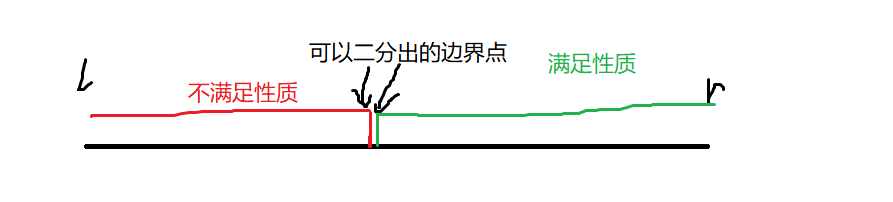
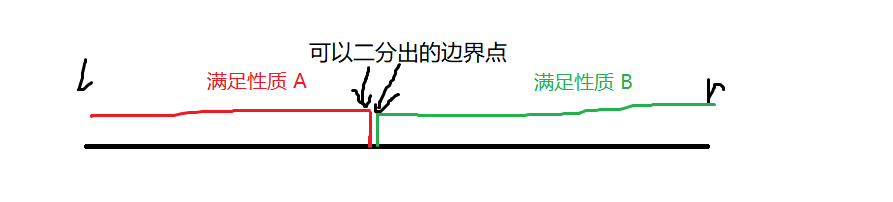
Site updated: 2022-01-06 17:11:42

Changed region(s): [[0.5745, 0.2376, 0.7256, 0.4455], [0.2116, 0.3564, 0.3628, 0.505]]

diff --git a/2020/08/17/algorithm/algorithm-binarysearch/index.html b/2020/08/17/algorithm/algorithm-binarysearch/index.html
@@ -35,7 +35,7 @@
 <meta property="og:locale" content="zh_CN">
 <meta property="og:image" content="https://yanglei253.github.io/2020/08/17/algorithm/algorithm-binarysearch/2022-01-05-16-02-47.png">
 <meta property="article:published_time" content="2020-08-17T11:36:17.000Z">
-<meta property="article:modified_time" content="2022-01-05T08:41:16.974Z">
+<meta property="article:modified_time" content="2022-01-05T11:20:25.718Z">
 <meta property="article:author" content="YangLei253">
 <meta property="article:tag" content="二分思想">
 <meta name="twitter:card" content="summary">
@@ -309,14 +309,14 @@
         <i class="far fa-file-word"></i>
       </span>
       <span class="post-meta-item-text">本文字数：</span>
-      <span>1.6k</span>
+      <span>1.7k</span>
     </span>
     <span class="post-meta-item" title="阅读时长">
       <span class="post-meta-item-icon">
         <i class="far fa-clock"></i>
       </span>
       <span class="post-meta-item-text">阅读时长 &asymp;</span>
-      <span>1 分钟</span>
+      <span>2 分钟</span>
     </span>
 </div>
 
@@ -333,16 +333,19 @@
 <p>二分搜索思想十分简单：首先确定待搜索区间，随后获取区间中间值并将其与待搜索值进行比对，如果区间中间值大于待搜索值，则待搜索区间应为左半部分，反之待搜索区间应为右半部分，最后递归处理待搜索区间即可。</p>
 <p>二分搜索实现比较困难，原因在于：若干边界条件需要判断。</p>
 <h2 id="实现"><a href="#实现" class="headerlink" title="实现"></a>实现</h2><p>如上所言，二分搜索实现较为困难。我们在此引入两个简洁地二分搜索模板。</p>
-<p>对于二分问题而言，其本质在于二段性，即一段满足某种性质，一段不满足某种性质 (或者称为一段满足性质 1，一段满足性质 2，而且性质 1/2 相对立)：<br><img src="/2020/08/17/algorithm/algorithm-binarysearch/2022-01-05-16-02-47.png"></p>
-<p>二分具体实现的结果，就是要找到两者的边界点。</p>
-<p>如何找到 “不满足性质的边界”？</p>
-<figure class="highlight java"><table><tr><td class="gutter"><pre><span class="line">1</span><br><span class="line">2</span><br><span class="line">3</span><br><span class="line">4</span><br><span class="line">5</span><br><span class="line">6</span><br><span class="line">7</span><br><span class="line">8</span><br><span class="line">9</span><br><span class="line">10</span><br><span class="line">11</span><br><span class="line">12</span><br><span class="line">13</span><br><span class="line">14</span><br><span class="line">15</span><br><span class="line">16</span><br><span class="line">17</span><br><span class="line">18</span><br><span class="line">19</span><br></pre></td><td class="code"><pre><span class="line"><span class="function"><span class="keyword">public</span> <span class="keyword">int</span> <span class="title">binarySearch</span><span class="params">(Integer[] objects, Integer item)</span> </span>&#123;</span><br><span class="line">    <span class="keyword">int</span> l = <span class="number">0</span>, r = objects.length - <span class="number">1</span>;</span><br><span class="line"></span><br><span class="line">    <span class="comment">// 循环判定条件总是此</span></span><br><span class="line">    <span class="keyword">while</span> (l &lt; r) &#123;</span><br><span class="line">        <span class="comment">// 获取中间节点索引</span></span><br><span class="line">        <span class="keyword">int</span> mid = (l + r + <span class="number">1</span>) &gt;&gt; <span class="number">1</span>;</span><br><span class="line"></span><br><span class="line">        <span class="comment">// 判定 objects[mid] 是否位于 &quot;不满足性质” 区间，如果位于，则对应边界应当存在于 [mid,r]，否则对应边界存在于 [l,mid - 1]</span></span><br><span class="line">        <span class="keyword">if</span> (check(objects[mid], item)) &#123;</span><br><span class="line">            l = mid;</span><br><span class="line">        &#125; <span class="keyword">else</span> &#123;</span><br><span class="line">            r = mid - <span class="number">1</span>;</span><br><span class="line">        &#125;</span><br><span class="line">    &#125;</span><br><span class="line"></span><br><span class="line">    <span class="comment">// l 即是 &quot;不满足性质&quot; 区间的边界</span></span><br><span class="line">    <span class="keyword">return</span> l;</span><br><span class="line">&#125;</span><br></pre></td></tr></table></figure>
-<p>如何找到 “满足性质的边界”？</p>
-<figure class="highlight java"><table><tr><td class="gutter"><pre><span class="line">1</span><br><span class="line">2</span><br><span class="line">3</span><br><span class="line">4</span><br><span class="line">5</span><br><span class="line">6</span><br><span class="line">7</span><br><span class="line">8</span><br><span class="line">9</span><br><span class="line">10</span><br><span class="line">11</span><br><span class="line">12</span><br><span class="line">13</span><br><span class="line">14</span><br><span class="line">15</span><br><span class="line">16</span><br><span class="line">17</span><br><span class="line">18</span><br><span class="line">19</span><br></pre></td><td class="code"><pre><span class="line"><span class="function"><span class="keyword">public</span> <span class="keyword">int</span> <span class="title">binarySearch</span><span class="params">(Integer[] objects, Integer item)</span> </span>&#123;</span><br><span class="line">    <span class="keyword">int</span> l = <span class="number">0</span>, r = objects.length - <span class="number">1</span>;</span><br><span class="line"></span><br><span class="line">    <span class="comment">// 循环判定条件总是此</span></span><br><span class="line">    <span class="keyword">while</span> (l &lt; r) &#123;</span><br><span class="line">        <span class="comment">// 获取中间节点索引</span></span><br><span class="line">        <span class="keyword">int</span> mid = (l + r) &gt;&gt; <span class="number">1</span>;</span><br><span class="line"></span><br><span class="line">        <span class="comment">// 判定 objects[mid] 是否位于 &quot;满足性质” 区间，如果位于，则对应边界应当存在于 [l,mid]，否则对应边界存在于 [mid+1,r] </span></span><br><span class="line">        <span class="keyword">if</span> (check(objects[mid], item)) &#123;</span><br><span class="line">            r = mid;</span><br><span class="line">        &#125; <span class="keyword">else</span> &#123;</span><br><span class="line">            l = mid + <span class="number">1</span>;</span><br><span class="line">        &#125;</span><br><span class="line">    &#125;</span><br><span class="line"></span><br><span class="line">     <span class="comment">// l 即是 &quot;满足性质&quot; 区间的边界</span></span><br><span class="line">    <span class="keyword">return</span> l;</span><br><span class="line">&#125;</span><br></pre></td></tr></table></figure>
-<blockquote>
-<p><strong>针对模板 1 中 mid 取值，作如下说明</strong>：<br>假定待搜索区间为 $[l,l+1]$ 且 $objects[l] \leq item$，此时如果采用 <code>mid = (l + r) &gt;&gt; 1</code> ，则 <code>mid = l</code>，由于 $objects[mid] \leq item$，则更新后的待搜索区间仍为 $[l,l+1]$，此时即造成死循环；如果采用 <code>mid = (l + r + 1) &gt;&gt; 1</code>，则不会造成这种情况。<br>==为记忆此两者模板，一个技巧：如果更新 <code>l/r</code> 部分涉及 <code>+1</code>，则 mid 计算部分没有 <code>+1</code>，反之则有。==</p>
-</blockquote>
-<p>从理论上说明如何实现二分搜索，现在落到实处：在一个有序数组内，二分查找指定数？<br>根据上述的模板，重点在于自定义 <code>check()</code> 实现。<br>对于 “满足性质” 而言，设定其实现为 <code>arr[mid] &gt;= item</code>，则最终找到的 <code>l</code> 为此区间的边界索引 (至于其是否为指定值，判定 <code>arr[mid] == item</code> 即可)。<br>对于 “不满足性质” 而言，设定其实现为 <code>arr[mid] &lt;= item</code>，则最终找到的 <code>l</code> 为此区间的边界索引 (至于其是否为指定值，判定 <code>arr[mid] == item</code> 即可)。</p>
+<p>对于二分问题而言，其本质在于二段性，即一段满足某种性质 A，一段满足某种性质 B (两者间可能完全对立，可能因 ‘=’ 存在部分重写)：<br><img src="/2020/08/17/algorithm/algorithm-binarysearch/2022-01-05-16-02-47.png"></p>
+<p>二分具体实现的结果，就是要找到两者的边界点 (一个是 “满足性质 A” 区间的最右端点，一个是 “满足性质 B” 区间的最左端点)。</p>
+<p>如何找到 “满足性质 A 的最右端点”？</p>
+<figure class="highlight java"><table><tr><td class="gutter"><pre><span class="line">1</span><br><span class="line">2</span><br><span class="line">3</span><br><span class="line">4</span><br><span class="line">5</span><br><span class="line">6</span><br><span class="line">7</span><br><span class="line">8</span><br><span class="line">9</span><br><span class="line">10</span><br><span class="line">11</span><br><span class="line">12</span><br><span class="line">13</span><br><span class="line">14</span><br><span class="line">15</span><br><span class="line">16</span><br><span class="line">17</span><br><span class="line">18</span><br><span class="line">19</span><br></pre></td><td class="code"><pre><span class="line"><span class="function"><span class="keyword">public</span> <span class="keyword">int</span> <span class="title">binarySearch</span><span class="params">(Integer[] objects, Integer item)</span> </span>&#123;</span><br><span class="line">    <span class="keyword">int</span> l = <span class="number">0</span>, r = objects.length - <span class="number">1</span>;</span><br><span class="line"></span><br><span class="line">    <span class="comment">// 循环判定条件总是此</span></span><br><span class="line">    <span class="keyword">while</span> (l &lt; r) &#123;</span><br><span class="line">        <span class="comment">// 获取中间节点索引</span></span><br><span class="line">        <span class="keyword">int</span> mid = (l + r + <span class="number">1</span>) &gt;&gt; <span class="number">1</span>;</span><br><span class="line"></span><br><span class="line">        <span class="comment">// 判定 objects[mid] 是否位于 &quot;满足性质 A” 区间，如果位于，则对应边界应当存在于 [mid,r]，否则对应边界存在于 [l,mid - 1]</span></span><br><span class="line">        <span class="keyword">if</span> (check(objects[mid], item)) &#123;</span><br><span class="line">            l = mid;</span><br><span class="line">        &#125; <span class="keyword">else</span> &#123;</span><br><span class="line">            r = mid - <span class="number">1</span>;</span><br><span class="line">        &#125;</span><br><span class="line">    &#125;</span><br><span class="line"></span><br><span class="line">    <span class="comment">// l 即是 &quot;满足性质 A&quot; 区间的最右端点</span></span><br><span class="line">    <span class="keyword">return</span> l;</span><br><span class="line">&#125;</span><br></pre></td></tr></table></figure>
+<p>如何找到 “满足性质 B 的最左端点”？</p>
+<figure class="highlight java"><table><tr><td class="gutter"><pre><span class="line">1</span><br><span class="line">2</span><br><span class="line">3</span><br><span class="line">4</span><br><span class="line">5</span><br><span class="line">6</span><br><span class="line">7</span><br><span class="line">8</span><br><span class="line">9</span><br><span class="line">10</span><br><span class="line">11</span><br><span class="line">12</span><br><span class="line">13</span><br><span class="line">14</span><br><span class="line">15</span><br><span class="line">16</span><br><span class="line">17</span><br><span class="line">18</span><br><span class="line">19</span><br></pre></td><td class="code"><pre><span class="line"><span class="function"><span class="keyword">public</span> <span class="keyword">int</span> <span class="title">binarySearch</span><span class="params">(Integer[] objects, Integer item)</span> </span>&#123;</span><br><span class="line">    <span class="keyword">int</span> l = <span class="number">0</span>, r = objects.length - <span class="number">1</span>;</span><br><span class="line"></span><br><span class="line">    <span class="comment">// 循环判定条件总是此</span></span><br><span class="line">    <span class="keyword">while</span> (l &lt; r) &#123;</span><br><span class="line">        <span class="comment">// 获取中间节点索引</span></span><br><span class="line">        <span class="keyword">int</span> mid = (l + r) &gt;&gt; <span class="number">1</span>;</span><br><span class="line"></span><br><span class="line">        <span class="comment">// 判定 objects[mid] 是否位于 &quot;满足性质 B” 区间，如果位于，则对应边界应当存在于 [l,mid]，否则对应边界存在于 [mid+1,r] </span></span><br><span class="line">        <span class="keyword">if</span> (check(objects[mid], item)) &#123;</span><br><span class="line">            r = mid;</span><br><span class="line">        &#125; <span class="keyword">else</span> &#123;</span><br><span class="line">            l = mid + <span class="number">1</span>;</span><br><span class="line">        &#125;</span><br><span class="line">    &#125;</span><br><span class="line"></span><br><span class="line">     <span class="comment">// l 即是 &quot;满足性质&quot; 区间的最左端点</span></span><br><span class="line">    <span class="keyword">return</span> l;</span><br><span class="line">&#125;</span><br></pre></td></tr></table></figure>
+<p>针对上述两个模板，作如下说明：</p>
+<ol>
+<li>第一个模板中 mid 取值的解释：假定待搜索区间为 $[l,l+1]$ 且 $objects[l] \leq item$，此时如果采用 <code>mid = (l + r) &gt;&gt; 1</code> ，则 <code>mid = l</code>，由于 $objects[mid] \leq item$，则更新后的待搜索区间仍为 $[l,l+1]$，此时即造成死循环；如果采用 <code>mid = (l + r + 1) &gt;&gt; 1</code>，则不会造成这种情况。</li>
+<li><strong>两个模板的 mid 取值，具体可理解为 <code>(l + r) &gt;&gt; 1</code> 的上下取整。如果其值为正值，上述操作可完成取值操作；如果其值为负值，则需要另行实现上下取整操作。</strong></li>
+<li>==为记忆此两者模板，一个技巧：如果更新 <code>l/r</code> 部分涉及 <code>+1</code>，则 mid 计算部分没有 <code>+1</code>，反之则有。==</li>
+</ol>
+<p>从理论上说明如何实现二分搜索，现在落到实处：在一个有序数组内，二分查找指定数？<br>根据上述的模板，重点在于自定义 <code>check()</code> 实现。<br>对于 “满足性质 B” 而言，设定其实现为 <code>arr[mid] &gt;= item</code>，则最终找到的 <code>l</code> 为此区间的边界索引 (至于其是否为指定值，判定 <code>arr[mid] == item</code> 即可)。<br>对于 “满足性质 A” 而言，设定其实现为 <code>arr[mid] &lt;= item</code>，则最终找到的 <code>l</code> 为此区间的边界索引 (至于其是否为指定值，判定 <code>arr[mid] == item</code> 即可)。</p>
 <blockquote>
 <p>代码验证，容易发现：对于同一有序数组而言 (假定其存在相同值，且搜索此相同值)，前者得到的 <code>l</code> 为相同值的第一个，后者得到的 <code>l</code> 为相同值的最后一个。</p>
 </blockquote>

diff --git a/page/6/index.html b/page/6/index.html
@@ -596,14 +596,14 @@
         <i class="far fa-file-word"></i>
       </span>
       <span class="post-meta-item-text">本文字数：</span>
-      <span>1.6k</span>
+      <span>1.7k</span>
     </span>
     <span class="post-meta-item" title="阅读时长">
       <span class="post-meta-item-icon">
         <i class="far fa-clock"></i>
       </span>
       <span class="post-meta-item-text">阅读时长 &asymp;</span>
-      <span>1 分钟</span>
+      <span>2 分钟</span>
     </span>
 </div>
 
